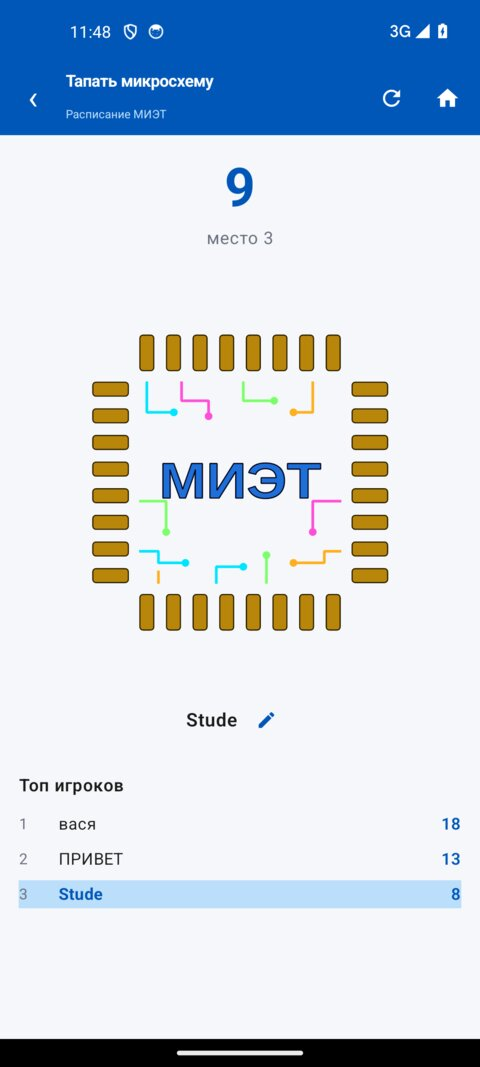
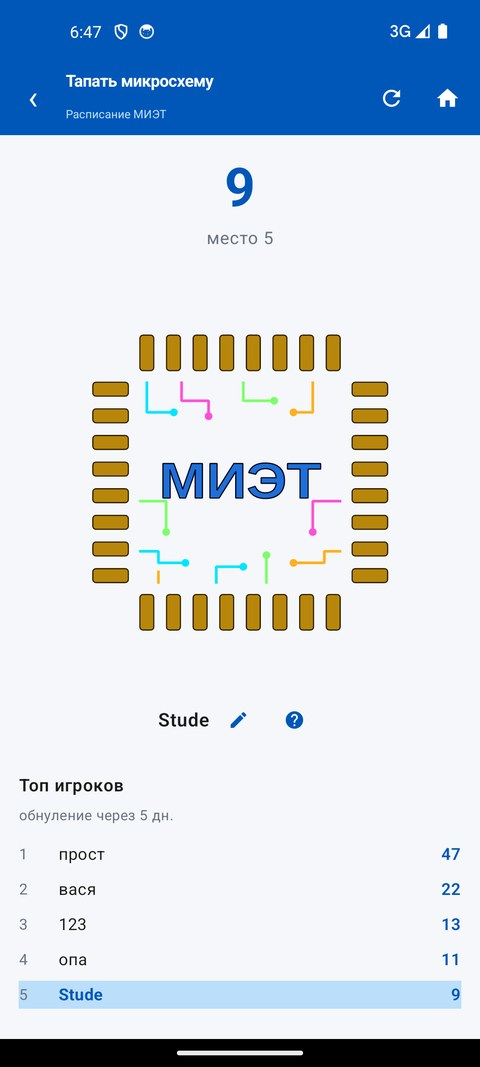
0.68: срок обнуления недели, доступность игры, аналитика в «О программе»
- мини-игра: правила открываются иконкой «?» рядом с карандашом. Отдельной
  строки «Правила» больше нет — она добавляла высоту и сдвигала таблицу
  игроков вниз;
- под «Топ игроков» показывается, сколько осталось до обнуления недели:
  сервер отдавал срок, приложение его разбирало, но на экране значение не
  использовалось;
- микросхема доступна экранному диктору: появились описание и действие, а
  начисление очка сведено в один путь — и тап пальцем, и нажатие TalkBack
  идут через него, ограничение скорости обойти нельзя;
- «О программе»: добавлен блок про аналитику — что именно отправляется и
  что в статистику не попадает;
- README: скриншот мини-игры переснят, на нём значок правил и срок обнуления;
- тесты: проверки срока обнуления, доступности микросхемы и блока аналитики.

diff --git a/app/src/main/java/com/mietschedule/app/TapChipScreen.kt b/app/src/main/java/com/mietschedule/app/TapChipScreen.kt
@@ -21,6 +21,7 @@ import androidx.compose.foundation.rememberScrollState
 import androidx.compose.foundation.shape.RoundedCornerShape
 import androidx.compose.foundation.verticalScroll
 import androidx.compose.material.icons.Icons
+import androidx.compose.material.icons.automirrored.filled.Help
 import androidx.compose.material.icons.filled.Edit
 import androidx.compose.material3.AlertDialog
 import androidx.compose.material3.Button
@@ -52,6 +53,11 @@ import androidx.compose.ui.draw.clip
 import androidx.compose.ui.graphics.Color
 import androidx.compose.ui.input.pointer.pointerInput
 import androidx.compose.ui.platform.LocalContext
+import androidx.compose.ui.semantics.Role
+import androidx.compose.ui.semantics.contentDescription
+import androidx.compose.ui.semantics.onClick
+import androidx.compose.ui.semantics.role
+import androidx.compose.ui.semantics.semantics
 import androidx.compose.ui.text.font.FontWeight
 import androidx.compose.ui.text.style.TextAlign
 import androidx.compose.ui.text.rememberTextMeasurer
@@ -454,6 +460,31 @@ fun TapChipScreen(onBack: () -> Unit) {
                     // ── микросхема ────────────────────────────────────
                     val pressAmt = press.value
 
+                    // Засчитать очко. Один путь и для тапа пальцем, и для
+                    // нажатия через экранный диктор: раньше начисление жило
+                    // прямо в обработчике тапа, а микросхема не имела
+                    // семантики — с включённым TalkBack в игру нельзя было
+                    // играть вообще, диктору нечего было нажимать.
+                    //
+                    // Пауза между тапами проверяется здесь же: без неё
+                    // авто-повтор при удержании даёт сотни очков в секунду.
+                    val awardPoint: () -> Unit = {
+                        val now = System.currentTimeMillis()
+                        if (now - lastTapAt >= ChipTop.MIN_TAP_GAP_MS) {
+                            lastTapAt = now
+                            score += 1
+                            // Аналитика: засчитанный тап.
+                            Analytics.reportScore(score)
+                            // Вспышка при тапе: 1 → 0 за 380 мс.
+                            // animatable-функции suspend, а обработчик —
+                            // обычный, поэтому запуск отдельный.
+                            scope.launch {
+                                counterScale.snapTo(1.18f)
+                                counterScale.animateTo(1f, tween(220))
+                            }
+                        }
+                    }
+
                     Box(
                         Modifier
                             .fillMaxWidth()
@@ -480,6 +511,17 @@ fun TapChipScreen(onBack: () -> Unit) {
                         Box(
                             Modifier
                                 .fillMaxSize()
+                                // Семантика нужна экранному диктору:
+                                // без неё микросхема для TalkBack —
+                                // просто картинка без действия.
+                                .semantics {
+                                    contentDescription = "Микросхема"
+                                    role = Role.Button
+                                    onClick(label = "Добавить очко") {
+                                        awardPoint()
+                                        true
+                                    }
+                                }
                                 .pointerInput(Unit) {
                                     detectTapGestures(
                                         onPress = {
@@ -487,27 +529,7 @@ fun TapChipScreen(onBack: () -> Unit) {
                                             tryAwaitRelease()
                                             press.animateTo(0f, tween(160))
                                         },
-                                        onTap = {
-                                            val now = System.currentTimeMillis()
-                                            // Пауза между тапами: без неё
-                                            // авто-повтор при удержании
-                                            // даёт сотни очков в секунду.
-                                            if (now - lastTapAt < ChipTop.MIN_TAP_GAP_MS) {
-                                                return@detectTapGestures
-                                            }
-                                            lastTapAt = now
-                                            score += 1
-                                            // Аналитика: засчитанный тап.
-                                            Analytics.reportScore(score)
-                                            // Вспышка при тапе: 1 → 0 за 380 мс.
-                                            // animatable-функции suspend, а
-                                            // onTap — обычный обработчик, поэтому
-                                            // запуск отдельный.
-                                            scope.launch {
-                                                counterScale.snapTo(1.18f)
-                                                counterScale.animateTo(1f, tween(220))
-                                            }
-                                        },
+                                        onTap = { awardPoint() },
                                     )
                                 }
                         )
@@ -516,18 +538,14 @@ fun TapChipScreen(onBack: () -> Unit) {
                     Spacer(Modifier.height(10.dp))
 
                     // ── ник ──────────────────────────────────────────
+                    // Правила открываются иконкой «?» рядом с карандашом.
+                    // Отдельной строкой они занимали высоту и сдвигали
+                    // таблицу игроков вниз — на экране игры это заметно.
                     NickRow(
                         nick = nick,
                         onChange = { editingNick = true },
+                        onRules = { showRules = true },
                     )
-
-                    // Ссылка на правила. Строка, а не раскрывающийся блок:
-                    // раскрытие меняло бы высоту и толкало таблицу игроков
-                    // вниз. Сами правила показываются всплывающим окном,
-                    // поверх экрана, поэтому вёрстка остаётся на месте.
-                    TextButton(onClick = { showRules = true }) {
-                        Text("Правила", fontSize = 14.sp, color = MIET_BLUE)
-                    }
 
                     Spacer(Modifier.height(20.dp))
                     Leaderboard(top)
@@ -592,6 +610,33 @@ internal fun rankLabel(rank: Int): String? = when {
 }
 
 /**
+ * Сколько осталось до обнуления недели.
+ *
+ * Значение приходит с сервера вместе с топом (`resetsAt`) и раньше нигде
+ * не показывалось: в правилах сказано «обнуляется по понедельникам в
+ * 09:00», но сколько именно осталось, игрок не видел.
+ *
+ * Возвращает null, когда показывать нечего: сервер не сообщил срок
+ * (старый скрипт) или он уже прошёл. Пустая строка в этом случае оставила
+ * бы лишний зазор под заголовком топа.
+ *
+ * Часы и дни — сокращениями: «через 3 ч.» и «через 3 дн.» не требуют
+ * согласования падежа, в отличие от «3 часа» и «3 дня».
+ */
+internal fun resetLabel(resetsAtMillis: Long, nowMillis: Long): String? {
+    if (resetsAtMillis <= 0L) return null
+    val left = resetsAtMillis - nowMillis
+    if (left <= 0L) return null
+    val hours = left / 3_600_000L
+    return when {
+        hours < 1L -> "обнуление меньше чем через час"
+        hours < 24L -> "обнуление через $hours ч."
+        hours < 48L -> "обнуление завтра"
+        else -> "обнуление через ${hours / 24L} дн."
+    }
+}
+
+/**
  * Геометрия счётчика очков.
  *
  * Высота задана явно, потому что счётчик теперь анимируется масштабом, а
@@ -614,9 +659,9 @@ private const val PLACE_BOX_HEIGHT = 22
 // вёрстку.
 private const val REJECT_BOX_HEIGHT = 20
 
-/** Имя игрока и кнопка смены. */
+/** Имя игрока и кнопки: смена имени и правила. */
 @Composable
-private fun NickRow(nick: String, onChange: () -> Unit) {
+private fun NickRow(nick: String, onChange: () -> Unit, onRules: () -> Unit) {
     Row(
         Modifier.fillMaxWidth(),
         verticalAlignment = Alignment.CenterVertically,
@@ -640,6 +685,16 @@ private fun NickRow(nick: String, onChange: () -> Unit) {
             Icon(
                 Icons.Filled.Edit,
                 contentDescription = "Сменить имя",
+                tint = MIET_BLUE,
+                modifier = Modifier.size(18.dp),
+            )
+        }
+        // Правила — иконкой, а не строкой: строка добавляла высоту и
+        // сдвигала «Топ игроков» вниз.
+        IconButton(onClick = onRules) {
+            Icon(
+                Icons.AutoMirrored.Filled.Help,
+                contentDescription = "Правила",
                 tint = MIET_BLUE,
                 modifier = Modifier.size(18.dp),
             )
@@ -775,7 +830,8 @@ private fun NickDialog(
  */
 @Composable
 private fun Leaderboard(top: ChipTop.Top?) {
-    val list = top?.rows ?: return
+    val board = top ?: return
+    val list = board.rows
     Text(
         "Топ игроков",
         fontSize = 15.sp,
@@ -783,6 +839,17 @@ private fun Leaderboard(top: ChipTop.Top?) {
         color = MaterialTheme.colorScheme.onSurface,
         modifier = Modifier.fillMaxWidth(),
     )
+    // Сколько осталось до обнуления. Срок приходит с сервером вместе с
+    // топом; если сервер его не сообщил — строки нет.
+    resetLabel(board.resetsAtMillis, System.currentTimeMillis())?.let { left ->
+        Spacer(Modifier.height(2.dp))
+        Text(
+            left,
+            fontSize = 12.sp,
+            color = LocalAppColors.current.muted,
+            modifier = Modifier.fillMaxWidth(),
+        )
+    }
     Spacer(Modifier.height(6.dp))
 
     if (list.isEmpty()) {

diff --git a/app/src/test/java/com/mietschedule/app/ChipTopTest.kt b/app/src/test/java/com/mietschedule/app/ChipTopTest.kt
@@ -992,8 +992,8 @@ class ChipTopTest {
         )
         val screen = srcFile("TapChipScreen.kt")
         assertTrue(
-            "обработчик тапа должен сверяться с константой",
-            screen.contains("now - lastTapAt < ChipTop.MIN_TAP_GAP_MS")
+            "начисление очка должно сверяться с константой",
+            screen.contains("now - lastTapAt >= ChipTop.MIN_TAP_GAP_MS"),
         )
     }
 
@@ -1030,11 +1030,13 @@ class ChipTopTest {
         val about = srcFile("AboutScreen.kt")
         val blocks: List<String> = Regex("""AboutBlock\(\s*\n\s*"([^"]+)"""").findAll(about).map { m: MatchResult -> m.groupValues[1] }.toList()
 
-        assertEquals("ожидалось 6 коротких блоков описания", 6, blocks.size)
+        assertEquals("ожидалось 7 коротких блоков описания", 7, blocks.size)
         assertTrue("нет блока про ближайшие пары", blocks.any { it.contains("Ближайшие пары") })
         assertTrue("нет блока про избранное", blocks.any { it.contains("Избранное") })
         assertTrue("нет блока про мини-игру", blocks.any { it.contains("Тапать микросхему") })
         assertTrue("нет блока про обновления", blocks.any { it.contains("Обновления") })
+        // Требование от 0.68: в интерфейсе не было ни слова про аналитику.
+        assertTrue("нет блока про аналитику", blocks.any { it.contains("Аналитика") })
         // Ссылка на исходники: требование от 0.66.
         assertTrue("нет ссылки на GitHub", about.contains("Исходный код на GitHub"))
         assertTrue(
@@ -1895,7 +1897,7 @@ class ChipTopTest {
         // Окно — AlertDialog, тот же элемент, что и ввод имени: нового
         // вида окна в приложении не появляется.
         val dialog = game.substringAfter("private fun RulesDialog")
-            .substringBefore("/** Текст правил")
+            .substringBefore("internal const val RULES_TEXT")
         assertTrue("правила должны рисоваться AlertDialog", dialog.contains("AlertDialog("))
         assertTrue("у окна должна быть кнопка закрытия", dialog.contains("\"Понятно\""))
         // В потоке игрового экрана текста правил быть не должно: там он
@@ -1904,6 +1906,87 @@ class ChipTopTest {
         assertFalse(
             "текст правил не должен стоять блоком в потоке",
             body.contains("RULES_TEXT"),
+        )
+        // Строка «Правила» отдельной строкой больше не занимает высоту:
+        // правила открываются иконкой в блоке с именем.
+        assertFalse(
+            "строка «Правила» не должна быть отдельной кнопкой в потоке",
+            body.contains("TextButton(onClick = { showRules = true })"),
+        )
+        assertTrue(
+            "правила должны открываться из блока с именем",
+            game.contains("onRules = { showRules = true }"),
+        )
+    }
+
+    /**
+     * До экранного диктора игра доводит.
+     *
+     * Найдено при разборе: микросхема была картинкой без семантики и без
+     * действия, поэтому с включённым TalkBack играть было нельзя вообще —
+     * диктору нечего нажать. Теперь у микросхемы есть описание и действие,
+     * а начисление очка живёт в одном месте: и тап пальцем, и нажатие
+     * диктором идут через него.
+     */
+    @Test
+    fun `микросхема доступна экранному диктору`() {
+        val game = srcFile("TapChipScreen.kt")
+
+        assertTrue(
+            "у микросхемы должно быть описание для диктора",
+            game.contains("contentDescription = \"Микросхема\""),
+        )
+        assertTrue(
+            "у микросхемы должно быть действие для диктора",
+            game.contains("onClick(label = \"Добавить очко\")"),
+        )
+        assertTrue(
+            "нужна роль кнопки, иначе диктор не поймёт, что с ней делать",
+            game.contains("role = Role.Button"),
+        )
+        // Пауза между очками обязана проверяться в общем пути, а не в
+        // обработчике тапа: иначе диктор обходил бы ограничение.
+        val award = game.substringAfter("val awardPoint")
+            .substringBefore("Box(")
+        assertTrue(
+            "ограничение скорости должно жить в общем пути начисления",
+            award.contains("ChipTop.MIN_TAP_GAP_MS"),
+        )
+        assertEquals(
+            "обработчик тапа должен звать общий путь",
+            1,
+            Regex("""onTap = \{ awardPoint\(\) \}""").findAll(game).count(),
+        )
+    }
+
+    /**
+     * Срок обнуления недели показывается игроку.
+     *
+     * Сервер отдаёт `resetsAt`, приложение его разбирало и покрыло тестом,
+     * но на экране значение не использовалось: игрок читал «обнуляется по
+     * понедельникам в 09:00» и не понимал, сколько осталось.
+     */
+    @Test
+    fun `срок обнуления недели показывается`() {
+        val now = 1_800_000_000_000L
+        val hour = 3_600_000L
+
+        assertNull("сервер не сообщил срок — строки нет", resetLabel(0L, now))
+        assertNull("срок уже прошёл — строки нет", resetLabel(now - hour, now))
+        assertEquals(
+            "меньше часа",
+            "обнуление меньше чем через час",
+            resetLabel(now + 30 * 60_000L, now),
+        )
+        assertEquals("через 5 ч.", "обнуление через 5 ч.", resetLabel(now + 5 * hour, now))
+        assertEquals("завтра", "обнуление завтра", resetLabel(now + 30 * hour, now))
+        assertEquals("через 3 дн.", "обнуление через 3 дн.", resetLabel(now + 72 * hour, now))
+
+        // И строка действительно выводится на экране игры.
+        val game = srcFile("TapChipScreen.kt")
+        assertTrue(
+            "срок должен выводиться рядом с топом",
+            game.contains("resetLabel(board.resetsAtMillis"),
         )
     }
 

diff --git a/app/src/main/java/com/mietschedule/app/AboutScreen.kt b/app/src/main/java/com/mietschedule/app/AboutScreen.kt
@@ -280,6 +280,19 @@ fun AboutScreen(
                 "битый или подменённый не установится."
             )
 
+            // Блок про аналитику. Требование от 0.68: в интерфейсе не было
+            // ни слова о том, что приложение отправляет. Текст сверен с
+            // Analytics.kt, InstallCounter.kt и ReportData.kt: в статистику
+            // не попадает ни имя игрока, ни название группы.
+            AboutBlock(
+                "Аналитика",
+                "Собирается обезличенная статистика: запуск, открытое " +
+                "расписание и счёт в мини-игре. Имя игрока в неё не " +
+                "попадает. Установки считаются по случайному номеру " +
+                "устройства и модели телефона. Сообщение об ошибке уходит " +
+                "только по вашей команде."
+            )
+
             // ───────── исходный код ─────────
             //
             // Требование владельца от 0.66: «в о программе добавить ссылку на
